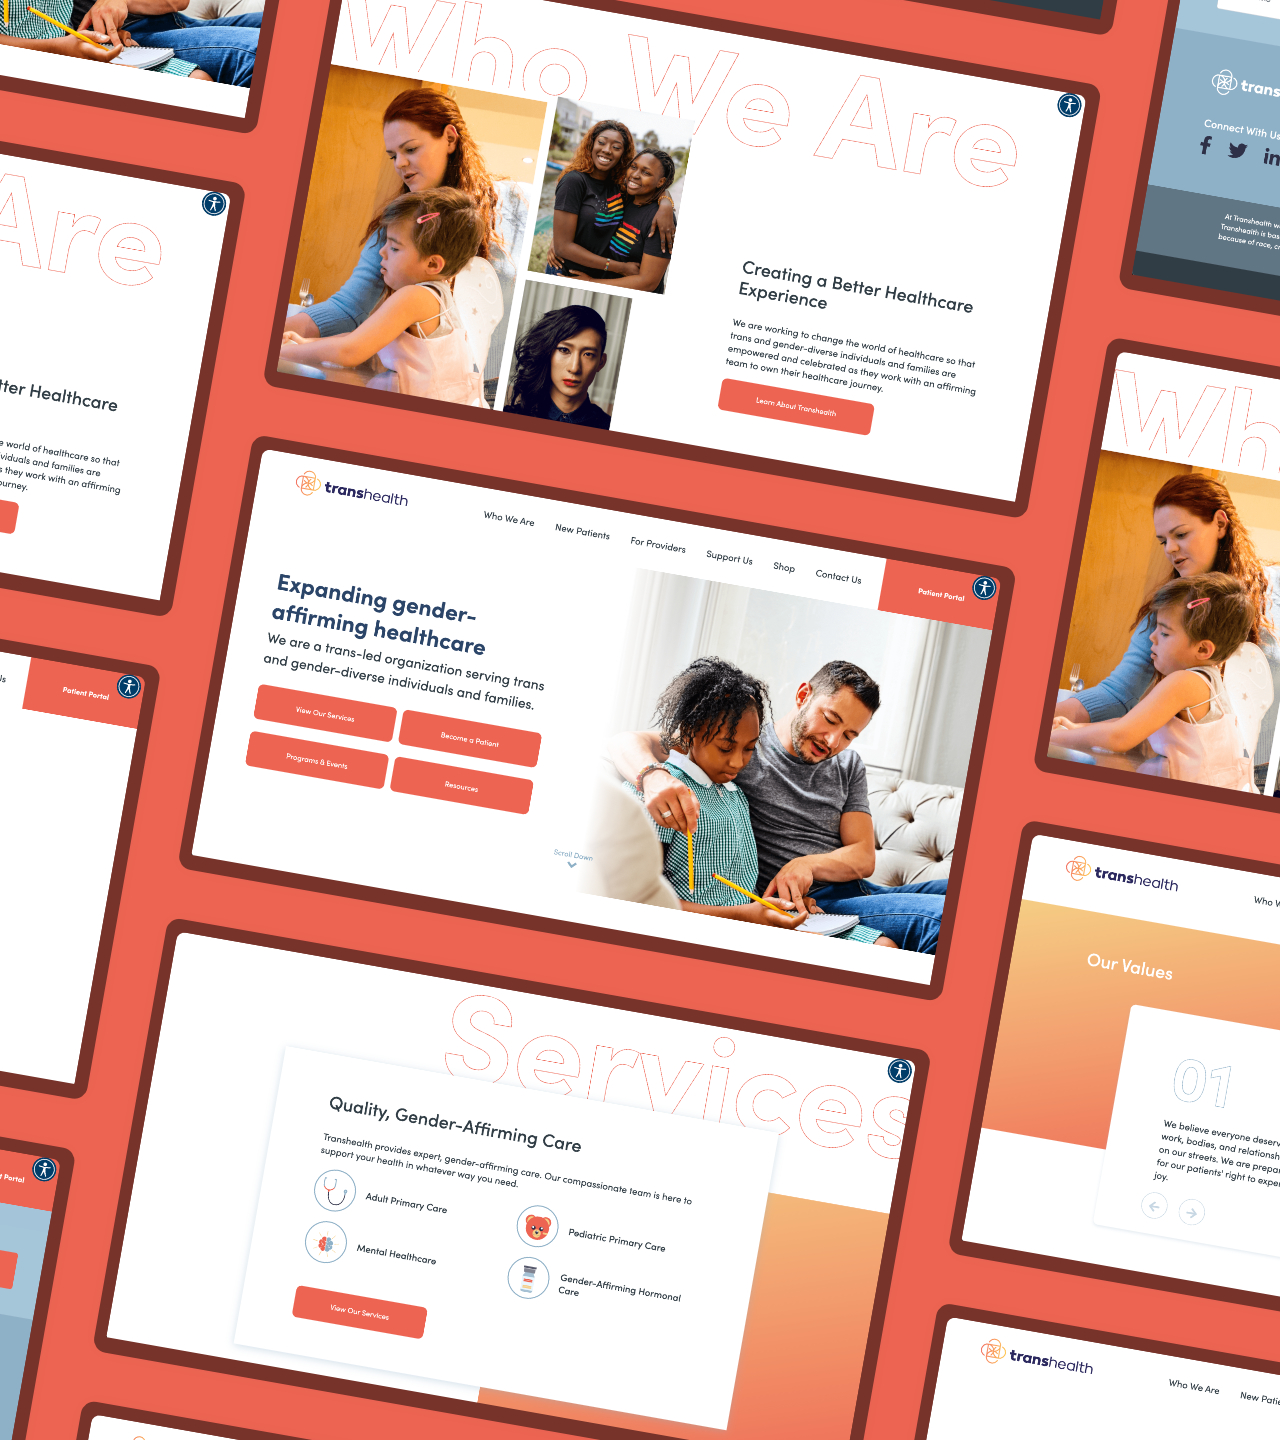
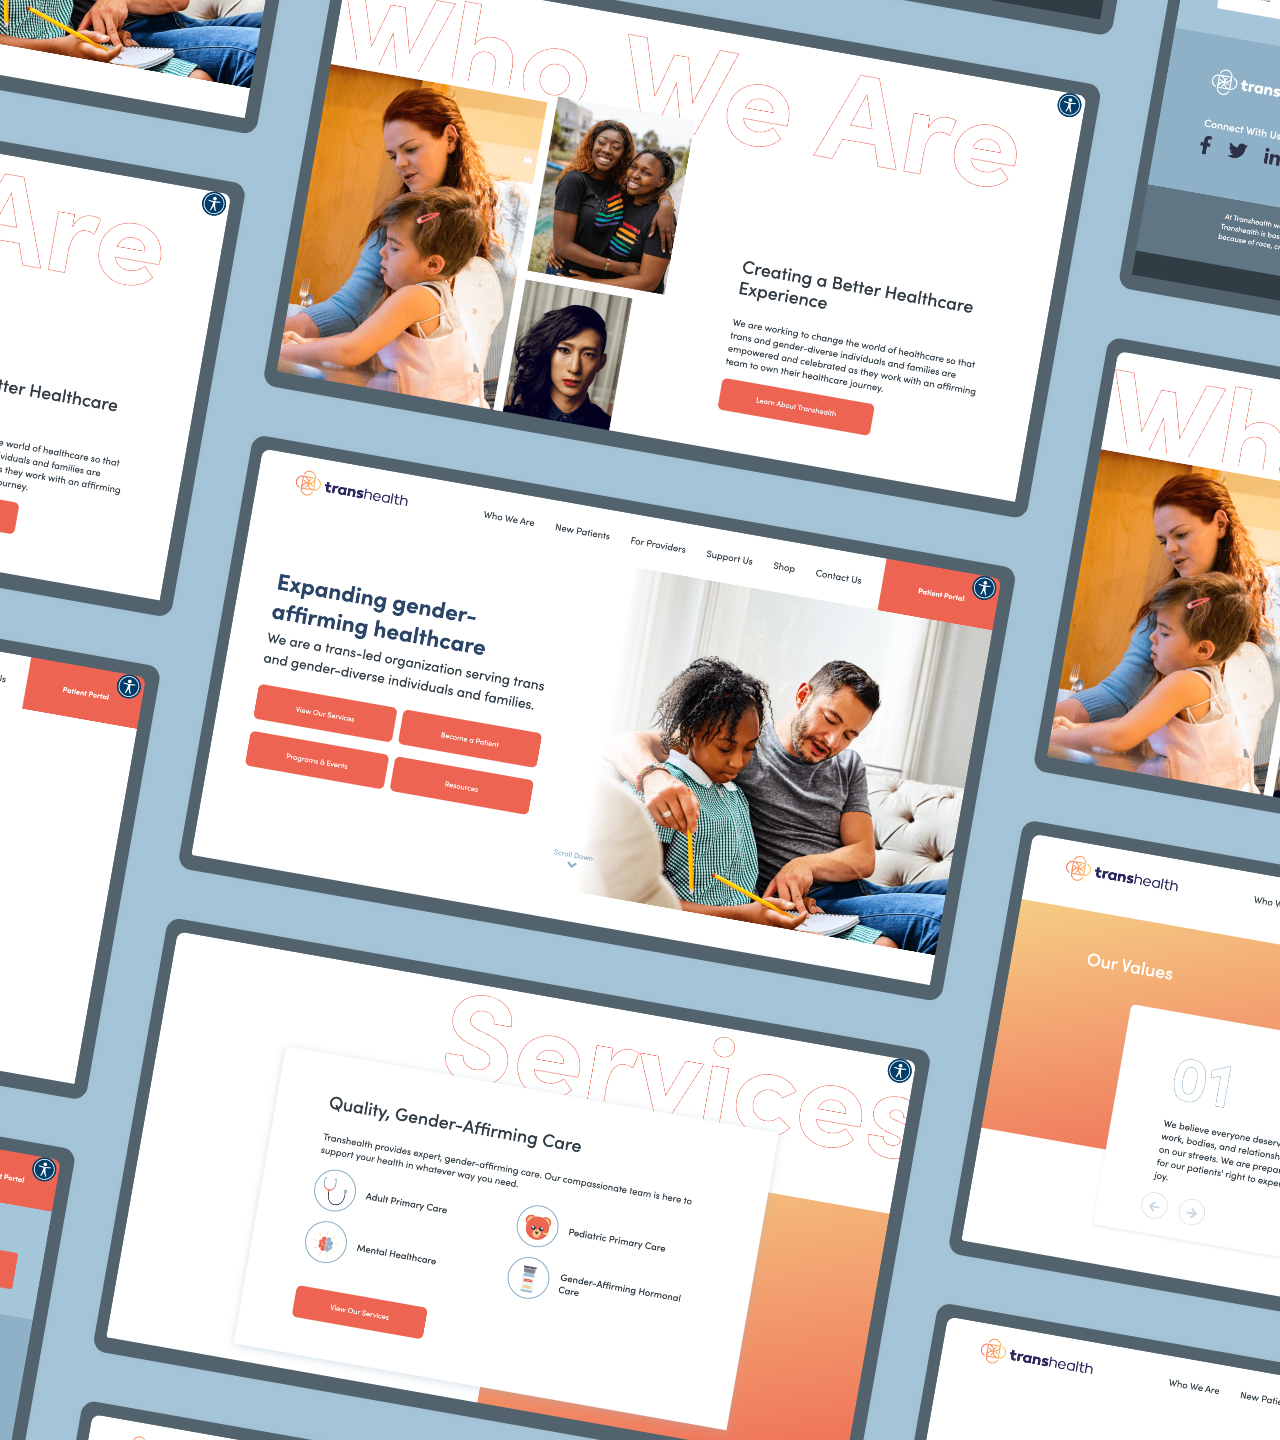
Added bg colors to work pages

Changed region(s): [[0.0, 0.0, 1.0, 1.0]]

diff --git a/src/pages/Work/WorkDetailPageClone.js b/src/pages/Work/WorkDetailPageClone.js
@@ -11,7 +11,9 @@ const work = [
         description: 'For years Vinfen was stuck with an overpriced, outdated, and subpar hosting provider. I migrated their five websites to a new hosting provider under a single Wordpress Multisite - allowing the administrators to easily manage everything from a single dashboard. I also built two custom Wordpress themes with an extensive module library to recreate their existing content with a modern look and feel.',
         image: 'vinfen_ui_mockup.jpg',
         url: 'https://vinfen.org',
-        headerColor: '#037993'
+        headerColor: '#BDE551',
+        textColor: '#ffffff',
+        bgColor: '#037993'
     },
     {
         name: 'Alarad Capital',
@@ -20,7 +22,9 @@ const work = [
         description: 'The primary challenge to overcome was true differentiation from the competition. I helped build a custom Wordpress theme based on the beautiful design system my partners developed. We thoughtfully incorporated animations and transitions to create an elegant and sophisticated feel.',
         image: 'alarad_ui_mockup.jpg',
         url: 'https://alaradcapital.com',
-        headerColor: '#C48A5C'
+        headerColor: '#D89663',
+        textColor: '#ffffff',
+        bgColor: '#172911'
     },
     {
         name: 'RANDYS Worldwide',
@@ -29,7 +33,9 @@ const work = [
         description: 'My team was hired to help RANDYS improve their user interface, assist in developing new features, and provide ongoing development support. The most exicting feature I helped develop was the Parts Portal - a Vue.js "garage" allowing users to filter results based on their selected vehicle. I also implemented a fresh new UI that included new category and product display pages.',
         image: 'randys_ui_mockup.jpg',
         url: 'https://randysworldwide.com',
-        headerColor: '#ED481C'
+        headerColor: '#ffffff',
+        textColor: '#ffffff',
+        bgColor: '#ED481C'
     },
     {
         name: 'Steel Root',
@@ -38,7 +44,9 @@ const work = [
         description: 'Visual identity and publisher useablility were the main goals of this project. I developed a custom Wordpress theme with a particular focus on content management. I built a modular system that allowed the stakeholders to easily create and edit custom pages.',
         image: 'steelroot_ui_mockup.jpg',
         url: 'https://steelroot.us',
-        headerColor: '#1A2C5C'
+        headerColor: '#F7525A',
+        textColor: '#ffffff',
+        bgColor: '#1A2C5C'
     },
     {
         name: 'Safesoak',
@@ -47,7 +55,9 @@ const work = [
         description: 'This project was my first opportunity to build a custom Shopify theme. I learned the Liquid templating language which enabled me to create an easily editable backend as well as replicate the UI system that my team designed.',
         image: 'safesoak_ui_mockup.jpg',
         url: 'https://mysafesoak.com',
-        headerColor: '#2F358F'
+        headerColor: '#6ECBE8',
+        textColor: '#ffffff',
+        bgColor: '#2F358F'
     },
     {
         name: 'Transhealth',
@@ -56,7 +66,9 @@ const work = [
         description: 'I\'m proud to have had the opportunity to work with such a fantastic organization. I was tasked with creating a new website that brought their new visual identity to the web. I developed a custom Wordpress theme that was lightweight and easily editable.',
         image: 'transhealth_ui_mockup.jpg',
         url: 'https://transhealth.org',
-        headerColor: '#EE6452'
+        headerColor: '#EF4738',
+        textColor: '#1d2529',
+        bgColor: '#A5C5D9'
     },
     {
         name: 'Fully Human Supplements',
@@ -65,7 +77,9 @@ const work = [
         description: 'Fully Human was in need of an ecommerce website that could effectively promote their brand, educate their customers, and sell their products. I built a custom Wordpress theme that utilized WooCommerce to satisfy the needs of the stakeholders and their customers.',
         image: 'fhs_ui_mockup.jpg',
         url: 'https://fullyhumansupplements.com',
-        headerColor: '#007BA7'
+        headerColor: '#00352f',
+        textColor: '#ffffff',
+        bgColor: '#01B19E'
     },
     {
         name: 'Universal Stone',
@@ -74,16 +88,20 @@ const work = [
         description: 'Universal Stone had been stuck with a set of poorly designed and developed Wordpress websites for years. I merged both sites into one with an updated UI. I\'m currently working on several new features including a Dropbox integration for users to upload project photos, and a live product inventory that pulls data from their content management software.',
         image: 'usi_ui_mockup.jpg',
         url: 'https://unistoneimports.com',
-        headerColor: '#81BB42'
+        headerColor: '#273814',
+        textColor: '#ffffff',
+        bgColor: '#81BB42'
     },
     {
         name: 'DriveForce',
         details: 'Wordpress, GSAP, Bootstrap, Gulp',
         companyDescription: 'DriveForce sells golf\'s first-ever pre-round performance blend, designed to keep you at your best for a full 18.',
-        description: 'DriveForce is a startup that worked with my team from their initial conception. Their website needed to strongly convey their brand, and effectively market and sell their product. I used Wordpress and WooCommerce to develop a custom theme with a modular content system that was used to achieve these goals.',
+        description: 'DriveForce is a startup that worked with my team from their conception. Their website needed to strongly convey their brand, and effectively market and sell their product. I used Wordpress and WooCommerce to develop a custom theme with a modular content system that was used to achieve these goals.',
         image: 'driveforce_ui_mockup.jpg',
         url: 'https://devonr52.sg-host.com',
-        headerColor: '#437663'
+        headerColor: '#DB4443',
+        textColor: '#ffffff',
+        bgColor: '#14302B'
     }
 ]
 
@@ -133,13 +151,13 @@ const WorkDetailPage = ({ WorkDetailPage }) => {
                     data-animate-direction={animateDirection}
                     ref={nodeRef}
                 >
-                    <div className="workDetailImage relative z-20 overflow-hidden lg:order-2">
+                    <div className="workDetailImage relative z-20 overflow-hidden lg:order-2" style={{ boxShadow: '-10px 0 10px rgba(0,0,0,0.2)' }}>
                         <img src={`/images/${work[currentWorkIndex].image}`} className="workImage absolute z-20 object-cover w-full h-full select-none" alt="" />
                         <img src={crossfadeImage} className="absolute z-0 object-cover w-full h-full select-none" />
                     </div>
 
-                    <div className="workDetailContent h-full relative z-10 flex items-center justify-center">
-                        <div className="workDescription" style={{ width: '80%' }}>
+                    <div className="workDetailContent h-full relative z-10 flex items-center justify-center" style={{ backgroundColor: `${work[currentWorkIndex].bgColor}`}}>
+                        <div className="workDescription" style={{ width: '80%', color: `${work[currentWorkIndex].textColor}` }}>
                             <h1 className="text-4xl font-bold mb-3 select-none" style={{ color: `${work[currentWorkIndex].headerColor}`}}>
                                 <a href={work[currentWorkIndex].url} target="_blank">
                                     {work[currentWorkIndex].name}
@@ -157,12 +175,12 @@ const WorkDetailPage = ({ WorkDetailPage }) => {
                         </div>
 
                         <div className="workDetailControls absolute right-0">
-                            <a onClick={() => handleClick('prev')} className="block p-3 pr-5 my-3 bg-red-500 cursor-pointer">
+                            <a onClick={() => handleClick('prev')} className="block p-3 pr-5 my-3 bg-gray-200 hover:bg-gray-400 cursor-pointer">
                                 <svg xmlns="http://www.w3.org/2000/svg" width="16" height="16" fill="currentColor" className="bi bi-arrow-up" viewBox="0 0 16 16">
                                     <path fillRule="evenodd" d="M8 15a.5.5 0 0 0 .5-.5V2.707l3.146 3.147a.5.5 0 0 0 .708-.708l-4-4a.5.5 0 0 0-.708 0l-4 4a.5.5 0 1 0 .708.708L7.5 2.707V14.5a.5.5 0 0 0 .5.5z"/>
                                 </svg>
                             </a>
-                            <a onClick={() => handleClick('next')} className="block p-3 pr-5 my-3 bg-blue-500 cursor-pointer">
+                            <a onClick={() => handleClick('next')} className="block p-3 pr-5 my-3 bg-gray-200 hover:bg-gray-400 cursor-pointer">
                                 <svg xmlns="http://www.w3.org/2000/svg" width="16" height="16" fill="currentColor" className="bi bi-arrow-down" viewBox="0 0 16 16">
                                     <path fillRule="evenodd" d="M8 1a.5.5 0 0 1 .5.5v11.793l3.146-3.147a.5.5 0 0 1 .708.708l-4 4a.5.5 0 0 1-.708 0l-4-4a.5.5 0 0 1 .708-.708L7.5 13.293V1.5A.5.5 0 0 1 8 1z"/>
                                 </svg>

diff --git a/src/components/Header/Header.js b/src/components/Header/Header.js
@@ -19,7 +19,7 @@ const HeaderNavLink = ({ name, path }) => {
 const Header = ({ routes }) => {
     return (
         <>
-            <span className={`absolute z-30 top-0 left-1/2 -translate-x-1/2 text-xl border border-t-0 border-solid border-black rounded-b-lg py-2 px-7 bg-black text-white`}>Devon Riley</span>
+            <span className={`absolute z-30 top-0 left-1/2 -translate-x-1/2 text-xl drop-shadow-lg rounded-b-lg py-2 px-7 bg-black text-white`}>Devon Riley</span>
             <nav className="absolute z-30 bottom-5 left-1/2 -translate-x-1/2 border-solid border border-black rounded-full py-3 px-7 bg-white drop-shadow-md">
                 <ul>
                     <HeaderNavLink name="About" path="/" />

diff --git a/src/pages/Work/WorkDetail.css b/src/pages/Work/WorkDetail.css
@@ -42,11 +42,11 @@
 
 .work-detail-page-enter-done  .workDetailControls a {
     transform: translateX(0.5rem);
-    transition: transform 300ms;
+    transition: all ease 300ms;
 }
 
 .work-detail-page-enter-done .workDetailControls a:hover {
-    transition: transform 300ms;
+    transition: all ease 300ms;
     transform: translatex(0);
 }
 
